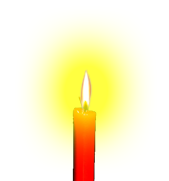
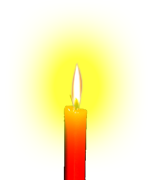
nen2

Changed region(s): [[0.1562, 0.1667, 0.5938, 1.0]]

diff --git a/index.html b/index.html
@@ -53,6 +53,9 @@
             flex-direction: column;
             align-items: center;
             justify-content: center;
+            background-color: black; /* Black background for left column */
+            padding: 10px; /* Add padding to separate content from edges */
+            border-radius: 8px; /* Optional: soften edges */
         }
         #login-panel, #subtree-input {
             text-align: center;
@@ -64,7 +67,7 @@
             border: 2px solid #4682b4;
             border-radius: 8px;
             background-color: #e6f3fa;
-            width: 500px; /* Adjusted width for cleaner look */
+            width: 500px;
             box-shadow: 0 4px 8px rgba(0, 0, 0, 0.1);
             font-family: 'Arial', sans-serif;
             white-space: pre-wrap;
@@ -72,7 +75,7 @@
         #reminder {
             font-size: 16px;
             padding: 15px;
-            width: 500px; /* Match lunar-date width */
+            width: 500px;
             margin-bottom: 10px;
             color: #8b0000;
             background: linear-gradient(to bottom, #fdf6e3, #f9e8b8);
@@ -95,22 +98,21 @@
             pointer-events: none;
         }
         #candle-container {
-            position: relative;
             display: flex;
             justify-content: center;
             align-items: center;
+            gap: 20px; /* Space between two candles */
             margin-bottom: 10px;
         }
-        #candle {
+        .candle {
             width: 100px; /* Adjust size as needed */
             height: auto;
-            z-index: 2; /* Ensure candle is above canvas */
         }
         #canvas {
             position: absolute;
             top: 0;
             left: 0;
-            z-index: 1; /* Canvas behind candle */
+            z-index: 1; /* Canvas behind candles */
         }
         button {
             padding: 8px 16px;
@@ -127,7 +129,8 @@
     <div class="grid-container">
         <div id="lunar-info">
             <div id="candle-container">
-                <img id="candle" class="candle" src="photos/web/0.png" alt="Candle Animation">
+                <img class="candle" src="photos/web/bathuong.png" alt="Candle Left">
+                <img class="candle" src="photos/web/bathuong.png" alt="Candle Right">
                 <canvas id="canvas"></canvas>
             </div>
             <div id="reminder"></div>
@@ -277,19 +280,7 @@
         }
         checkCommemorations();
 
-        // Candle and particle animation script
-        let candleIndex = 0;
-        const candleFrames = [
-            "photos/web/0.png", "photos/web/1.png", "photos/web/2.png", "photos/web/3.png", 
-            "photos/web/4.png", "photos/web/5.png", "photos/web/6.png", "photos/web/7.png", 
-            "photos/web/8.png", "photos/web/2.png", "photos/web/1.png"
-        ];
-        function animateCandle() {
-            candleIndex = (candleIndex + 1) % candleFrames.length;
-            document.getElementById("candle").src = candleFrames[candleIndex];
-        }
-        setInterval(animateCandle, 200);
-
+        // Particle animation script (removed candle animation)
         let canvas = document.getElementById("canvas");
         let ctx = canvas.getContext("2d");
         let W = window.innerWidth;
